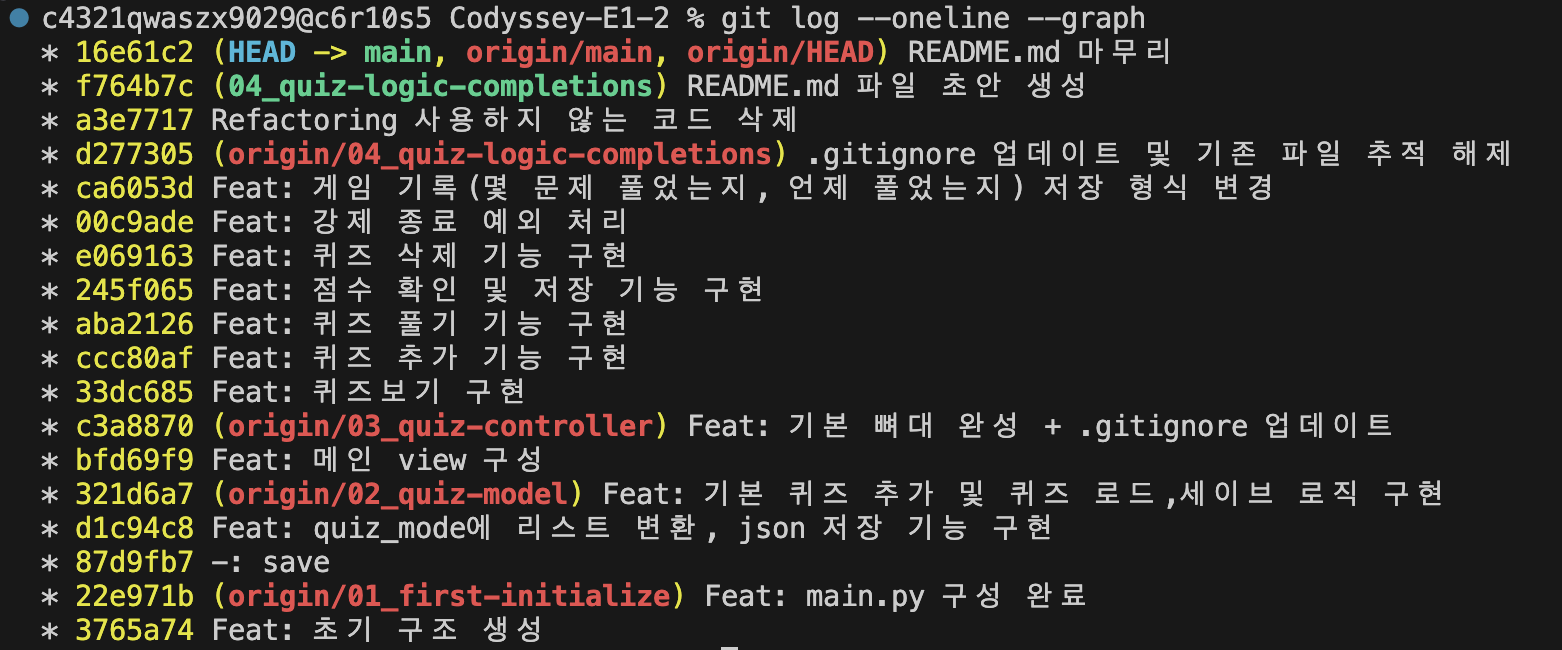
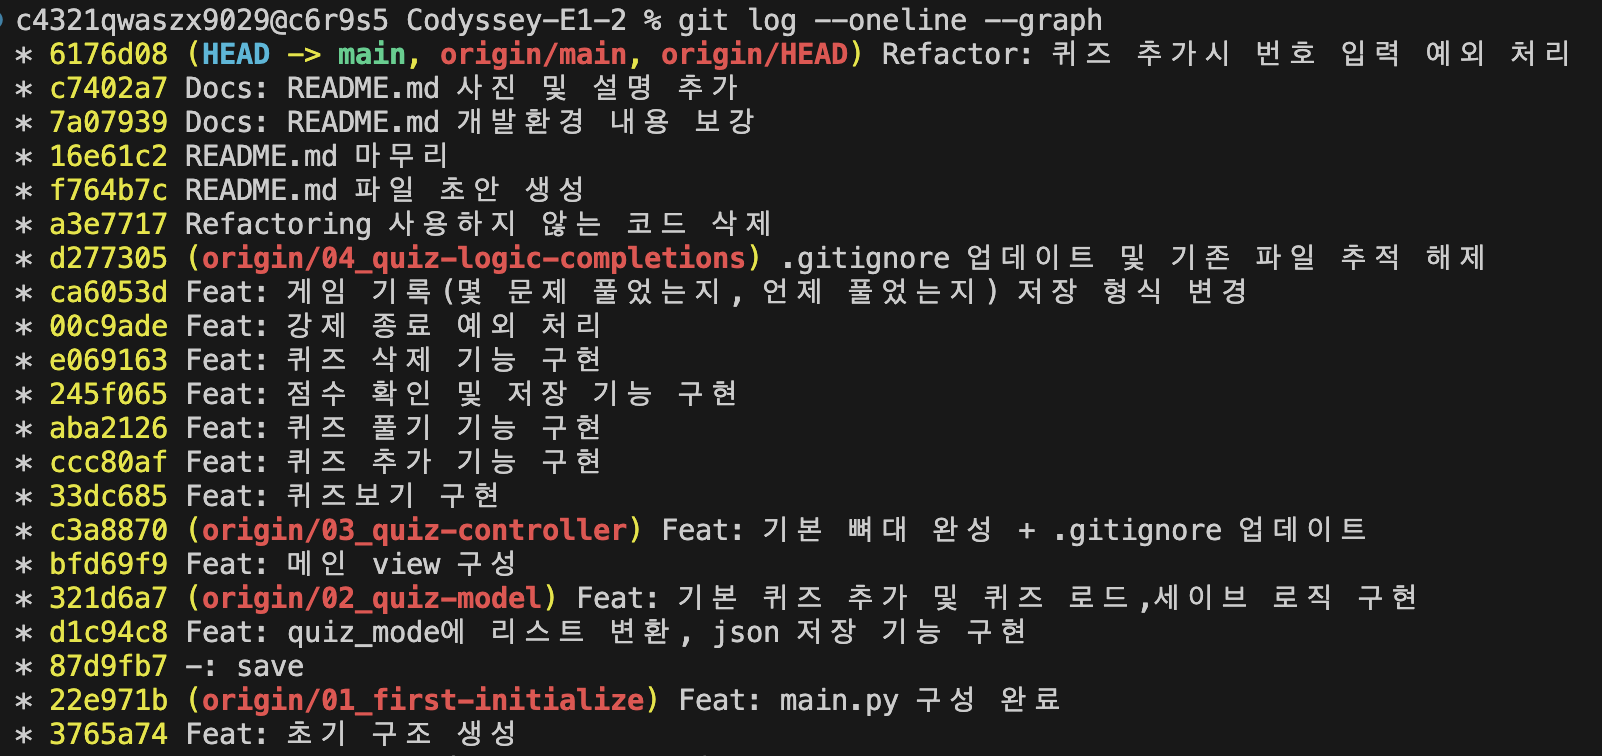
Docs: README 설명(아키텍쳐 설명, 저장 방식, 브랜치 전략 등) 업데이트

Changed region(s): [[0.0, 0.0, 0.9834, 0.9846], [0.4609, 0.9846, 0.4917, 1.0]]

diff --git a/README.md b/README.md
@@ -32,11 +32,19 @@
 
 1. **퀴즈 풀기**: 저장된 퀴즈 중 원하는 문제 수만큼 랜덤으로 출제되며 정답을 맞히면 점수를 획득합. (힌트 사용 시 점수 차감)
 2. **퀴즈 추가**: 사용자가 직접 문제, 보기, 정답, 힌트를 입력해 새로운 퀴즈를 등록.
-3. **퀴즈 목록**: 현재 등록되어 있는 모든 퀴즈의 문제 목록을 확인합니다.
+3. **퀴즈 목록**: 현재 등록되어 있는 모든 퀴즈의 문제 목록을 확인.
 4. **최고 점수 확인**: 역대 최고 점수와 최근 플레이한 퀴즈 기록(날짜, 문제 수, 점수)을 확인.
 5. **퀴즈 삭제**: 목록에 있는 퀴즈 중 불필요한 퀴즈를 선택해 삭제.
 6. **종료**: 현재까지의 모든 데이터를 파일에 안전하게 저장하고 게임을 종료.
 
+
+## 아키텍처 및 클래스 설계 이유
+본 프로젝트는 **MVC(Model-View-Controller) 패턴**을 기반으로 객체 지향 프로그래밍(OOP)을 적용함.
+
+### 함수 기반 접근 대신 클래스를 채택한 이유
+1. 응집도 향상: 퀴즈 데이터(`Quiz`)와 데이터를 다루는 로직(`QuizManager`)을 분리하여 관련 데이터를 하나의 객체로 묶음.
+2. 상태 관리 용이: `QuizManager` 클래스가 전체 퀴즈 목록과 최고 점수 등 전역 상태를 안전하게 캡슐화하여 관리.
+3. 유지보수성: 역할이 명확히 나뉘어 있어(화면 출력은 View, 제어는 Controller) 코드가 커져도 관리가 쉬움.
 
 # 파일 구조
 - `quiz_model.py`: 데이터 구조(Quiz 클래스)와 데이터 관리 및 파일 입출력 로직(QuizManager 클래스)을 담당.
@@ -78,11 +86,31 @@
     ]
 }
 ```
+## JSON 저장 방식 채택 이유
+퀴즈 데이터와 점수 기록을 영속화하기 위해 **JSON** 포맷을 선택함.
+- **가독성**: 텍스트 기반이라 사람이 직접 읽고 수정하거나 디버깅하기 쉬움.
+- **이식성**: 파이썬 표준 라이브러리(`json`)만으로 객체를 쉽게 직렬화/역직렬화할 수 있음.
+- **경량성**: 구조가 단순하여 적은 용량을 차지함.
+
+## 데이터 불러오기 / 저장
+- 프로그램을 시작할 때 자동적으로 state.json을 불러오고, 파일에 손상이 있거나 데이터가 없을 경우 기본 프리셋을 불러오게 함.
+- 프로그램을 종료할 때 마다 자동적으로 state.json에 현재 내용이 저장됨.
+- Ctrl + C 같은 강제 종료시에도 데이터가 자동적으로 저장됨.
+
+
 
 
 ---
 
-# Git 명령어 사용 기록
+# Git
+
+## 브랜치 전략
+안정적인 기능 개발을 위해 브랜치를 나누어 작업하고 병합(Merge)하는 전략을 사용함.
+- **브랜치 사용 목적**: `main` 브랜치의 안정적인 코드를 보호하면서, 새로운 기능 개발이나 버그 수정을 독립적인 작업 공간에서 안전하게 진행하기 위함.
+- **병합**: 브랜치에서 기능 개발과 테스트가 완전히 끝난 후, 그 결과물을 다시 `main` 브랜치로 합쳐 배포 가능한 상태를 유지하는 절차임.
+
+
+## Git 명령어 사용 기록
 
 - **add, commit, push, checkout(switch)**
 ```
@@ -180,9 +208,12 @@ Your branch is up to date with 'origin/main'.
 
 - **commit 기록(git log --oneline --graph)**
 ```
-ㅁㅁㅁㅁㅁㅁㅁㅁㅁㅁㅁㅁㅁㅁㅁㅁ % git log --oneline --graph
-* 16e61c2 (HEAD -> main, origin/main, origin/HEAD) README.md 마무리
-* f764b7c (04_quiz-logic-completions) README.md 파일 초안 생성
+ㅁㅁㅁㅁㅁㅁㅁㅁㅁㅁㅁㅁㅁㅁㅁㅁ % git log --oneline --graph      
+* 6176d08 (HEAD -> main, origin/main, origin/HEAD) Refactor: 퀴즈 추가시 번호 입력 예외 처리
+* c7402a7 Docs: README.md 사진 및 설명 추가
+* 7a07939 Docs: README.md 개발환경 내용 보강
+* 16e61c2 README.md 마무리
+* f764b7c README.md 파일 초안 생성
 * a3e7717 Refactoring 사용하지 않는 코드 삭제
 * d277305 (origin/04_quiz-logic-completions) .gitignore 업데이트 및 기존 파일 추적 해제
 * ca6053d Feat: 게임 기록(몇 문제 풀었는지, 언제 풀었는지) 저장 형식 변경
